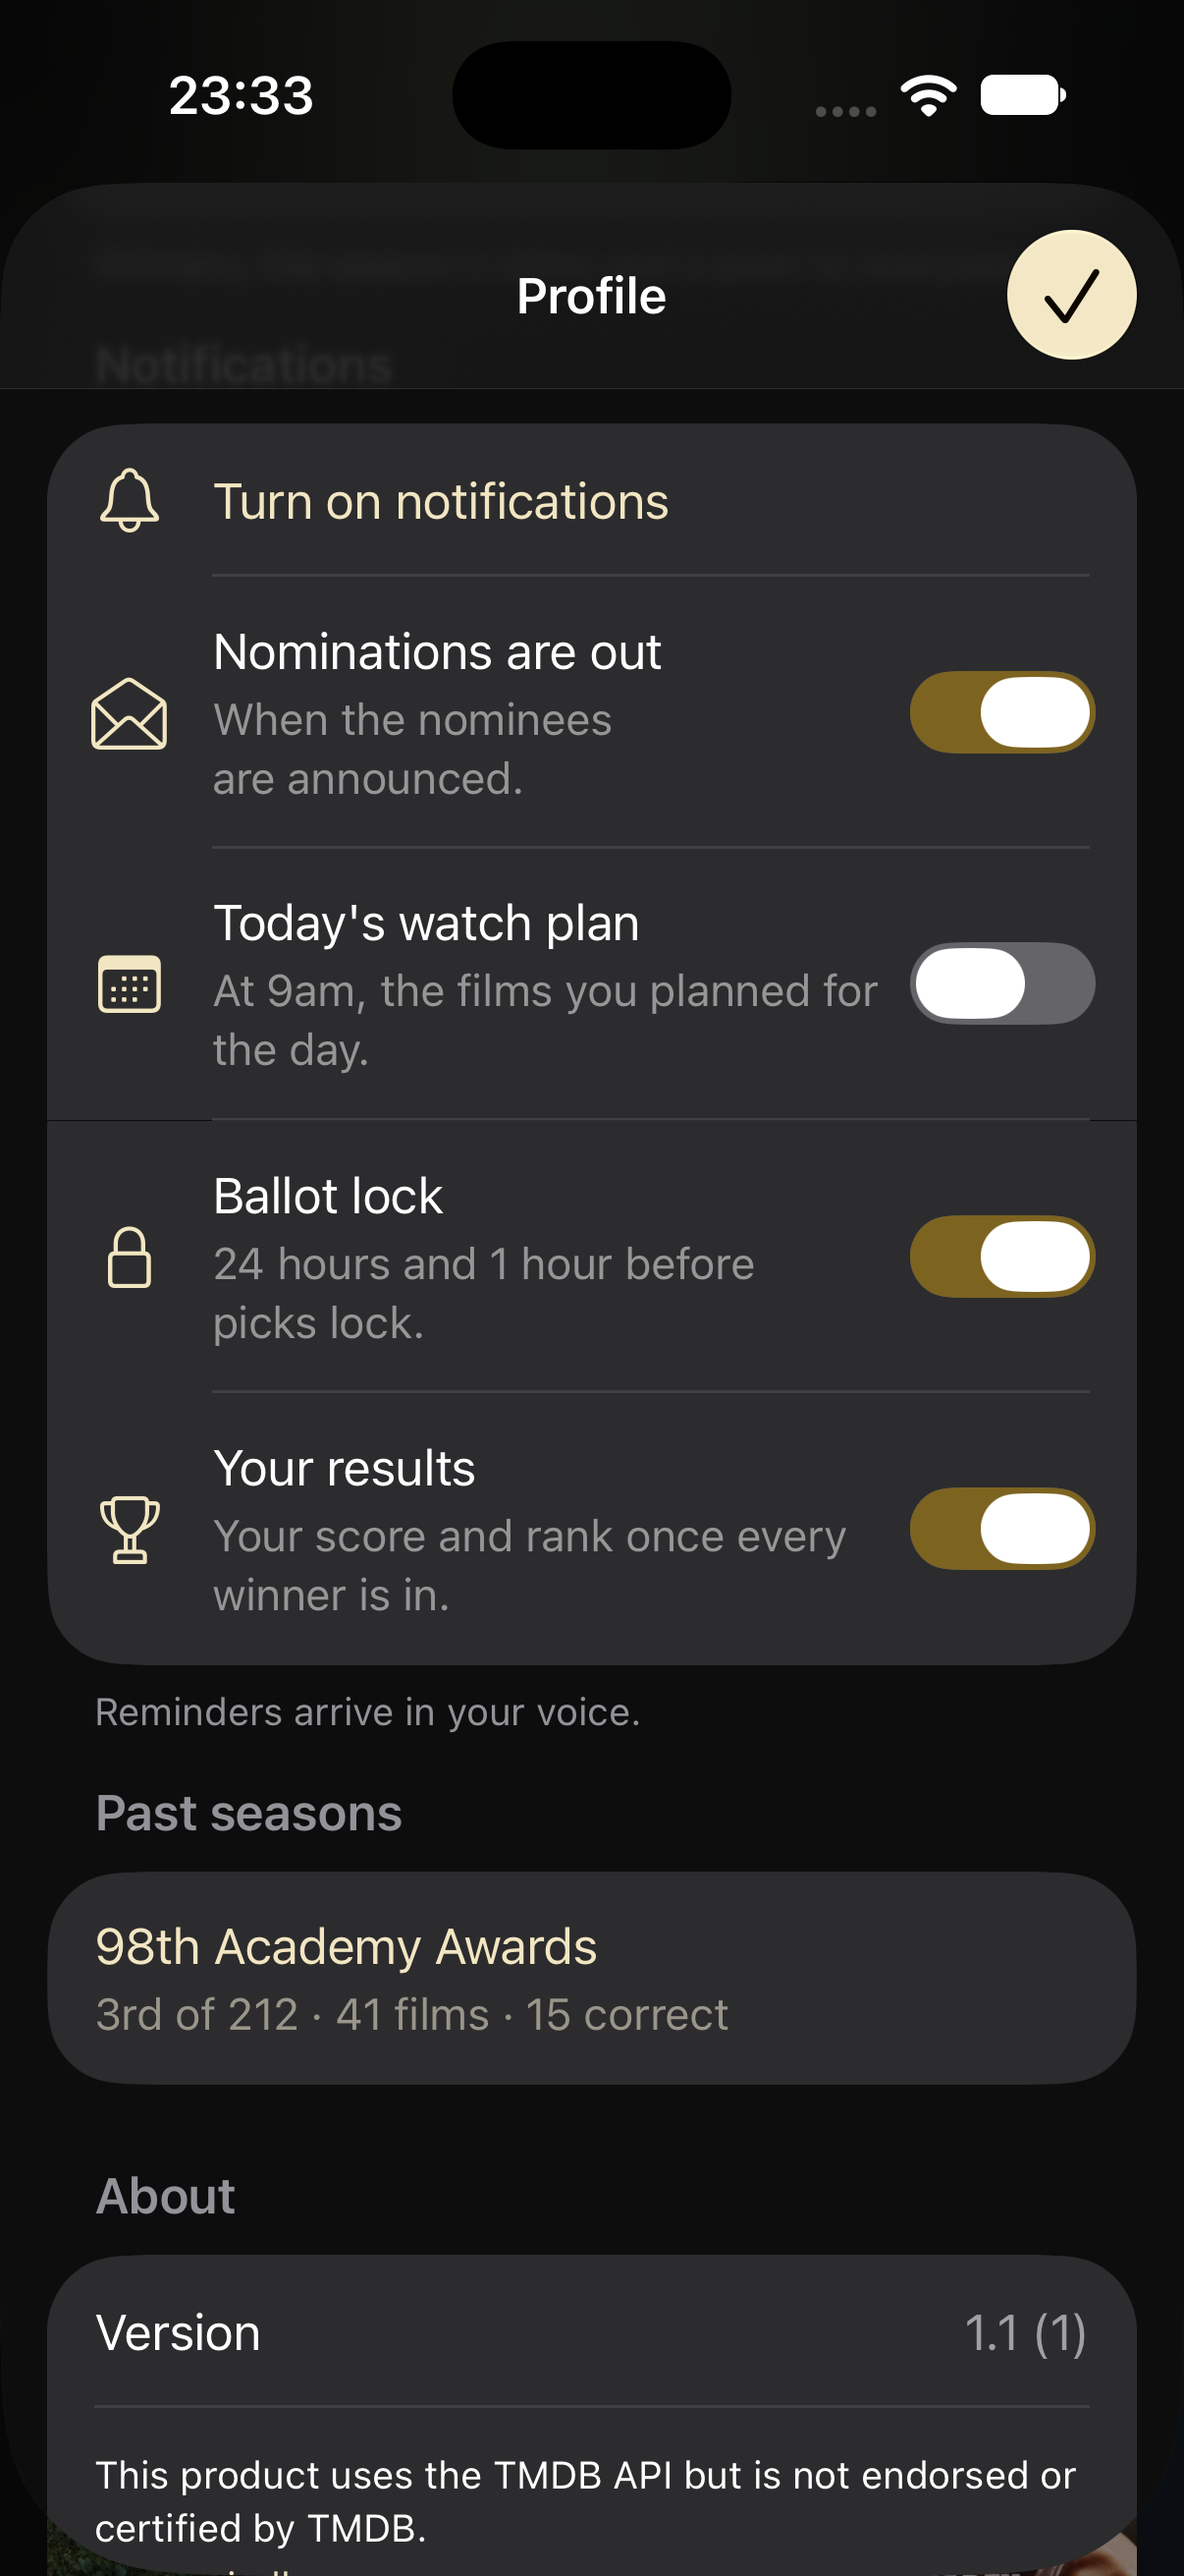
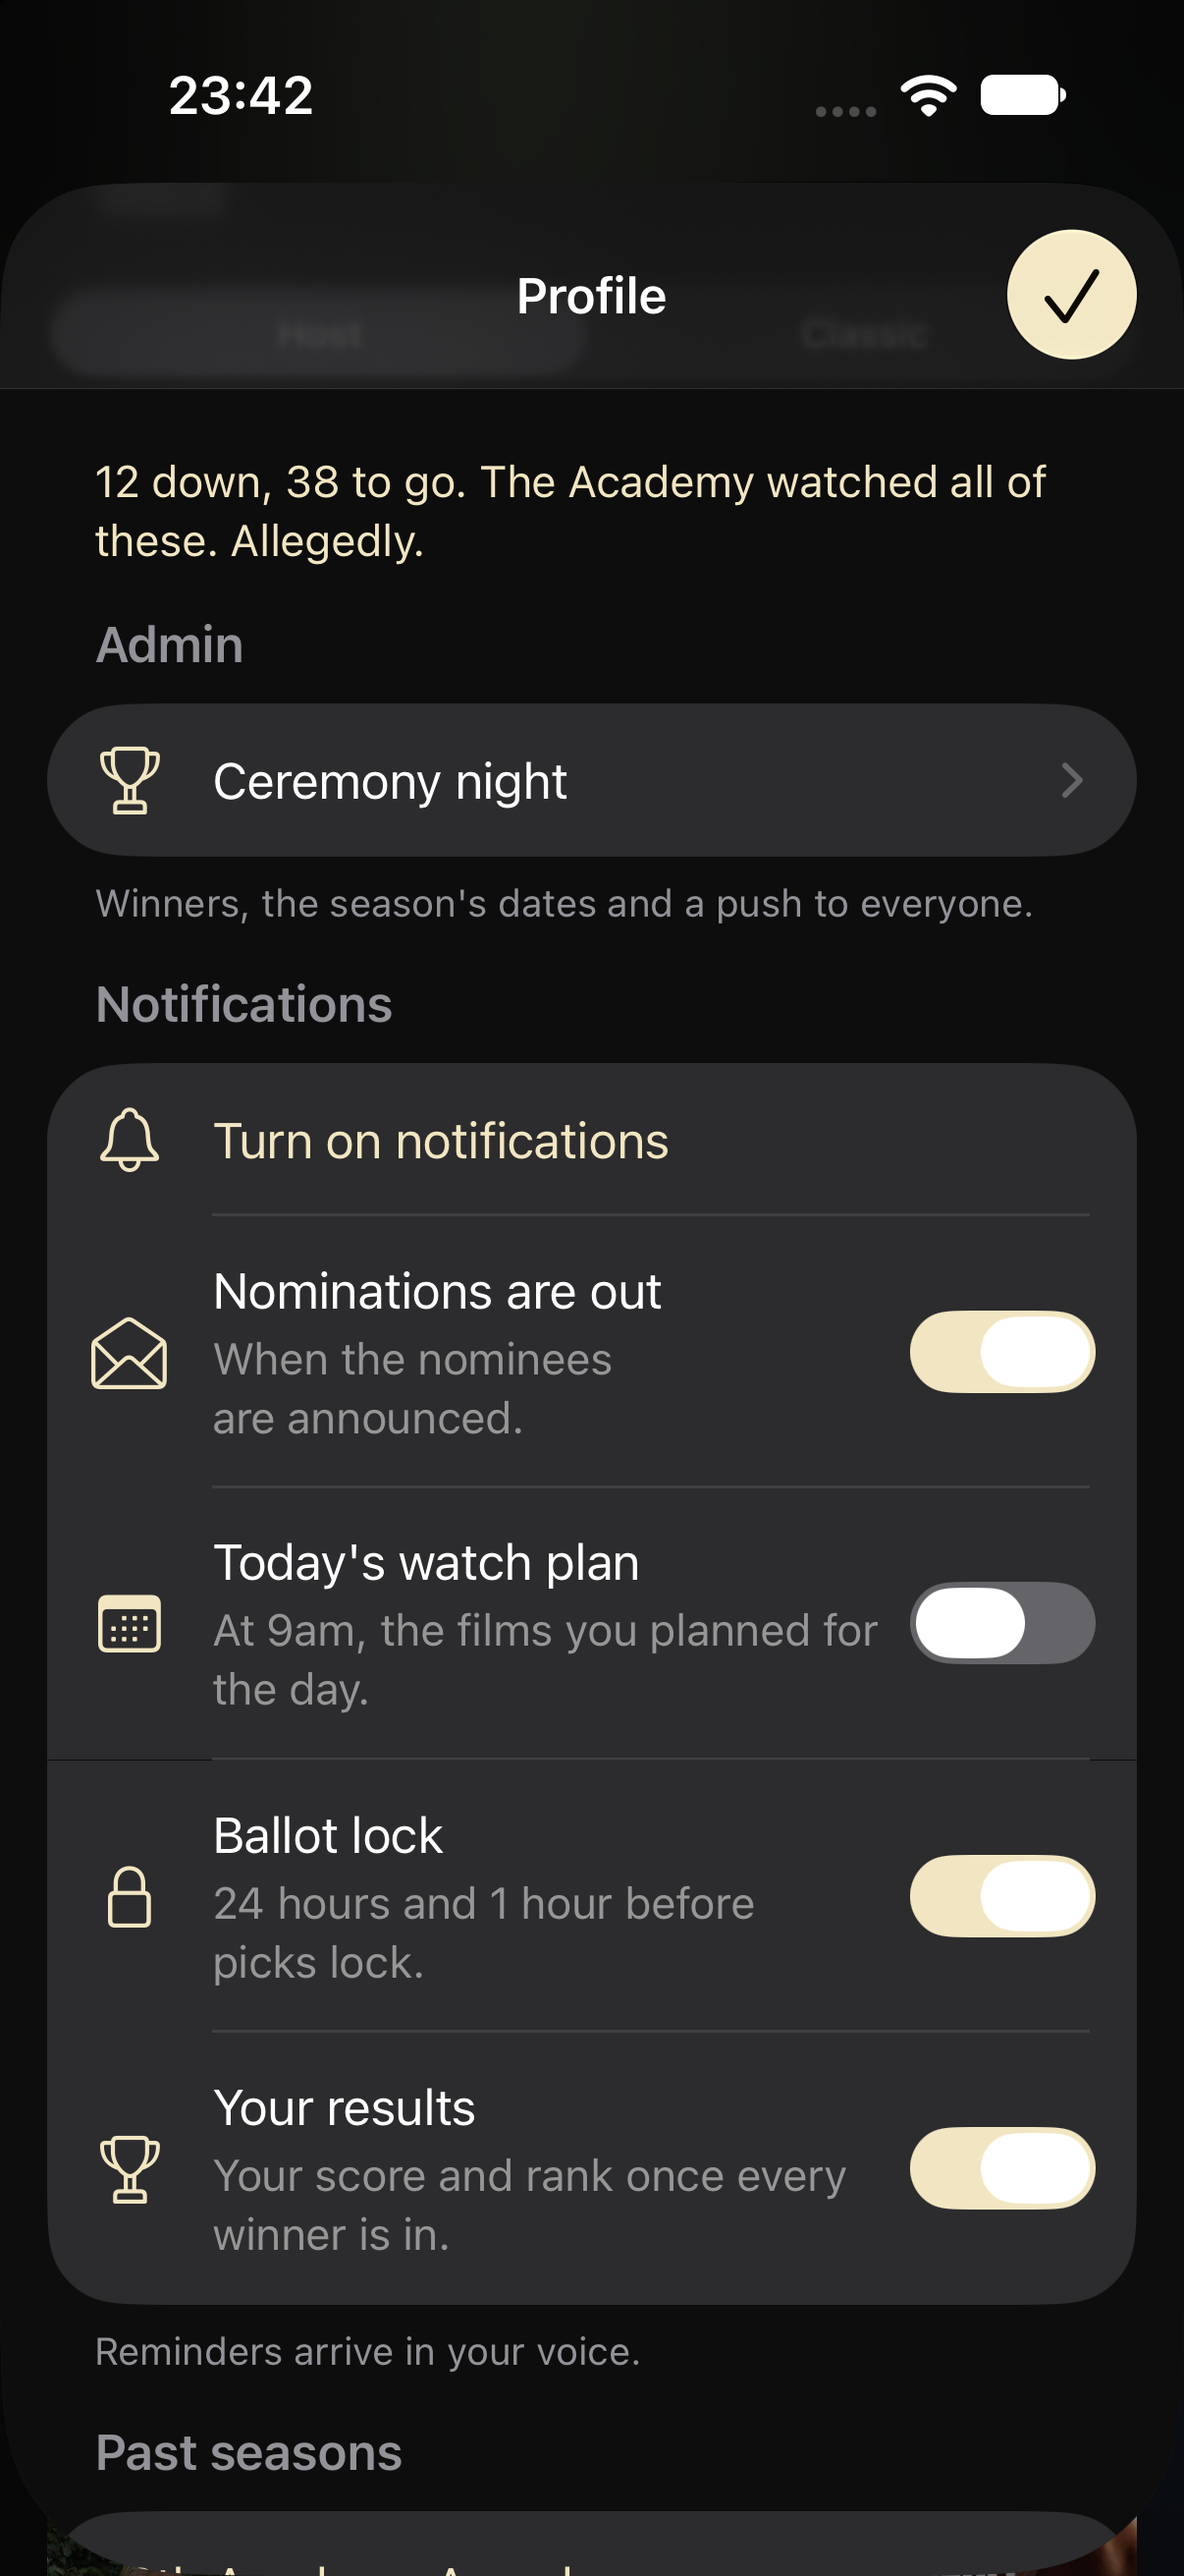
fix: Reminder saves run one at a time, switches aren't gold, and a nominations result stays with its ceremony

diff --git a/OscarsTracker/OscarsTracker/Stores/PushStore.swift b/OscarsTracker/OscarsTracker/Stores/PushStore.swift
@@ -29,7 +29,9 @@ final class PushStore {
     private(set) var status: UNAuthorizationStatus = .notDetermined
     private(set) var token: String?
     private(set) var preferences = NotificationPreferences.defaults
-    /// A switch being saved.
+    /// What the server last confirmed, which a failed save goes back to.
+    private var confirmed = NotificationPreferences.defaults
+    /// Preferences being saved.
     private(set) var isSaving = false
     var actionError: AppError?
 
@@ -84,6 +86,7 @@ final class PushStore {
     /// Before sign-out, so the next person on this phone doesn't get your pushes.
     func signingOut() async {
         preferences = .defaults
+        confirmed = .defaults
         guard let token else { return }
         try? await data.removeDevice(token: token)
     }
@@ -104,37 +107,51 @@ final class PushStore {
         } catch {
             return
         }
+        guard !isSaving else { return }
         preferences = stored ?? .defaults
+        confirmed = preferences
         var wanted = preferences
         wanted.voice = deviceVoice.rawValue
         wanted.timeZone = timeZone.identifier
         guard stored == nil || wanted != stored else { return }
-        if let saved = try? await data.saveNotificationPreferences(wanted) { preferences = saved }
+        if let saved = try? await data.saveNotificationPreferences(wanted), !isSaving {
+            preferences = saved
+            confirmed = saved
+        }
     }
 
-    /// Turns one reminder on or off; puts it back if the save fails.
+    /// Turns one reminder on or off. Saving puts everything back to what the
+    /// server last confirmed if it fails.
     func set(_ reminder: NotificationPreferences.Reminder, _ on: Bool) async {
-        let before = preferences
         preferences[reminder] = on
-        await save(rollingBackTo: before)
+        await save()
     }
 
     /// Profile → Voice changed: reminders follow it.
     func setVoice(_ voice: Voice) async {
         guard preferences.voice != voice.rawValue else { return }
-        let before = preferences
         preferences.voice = voice.rawValue
-        await save(rollingBackTo: before)
+        await save()
     }
 
-    private func save(rollingBackTo before: NotificationPreferences) async {
+    /// One save at a time: each sends the whole row, so a change made while
+    /// one is in flight is sent after it, in order, and a late answer never
+    /// overwrites a newer switch.
+    private func save() async {
+        guard !isSaving else { return }
         isSaving = true
         defer { isSaving = false }
-        do {
-            preferences = try await data.saveNotificationPreferences(preferences)
-        } catch {
-            preferences = before
-            actionError = AppError(error)
+        while preferences != confirmed {
+            let sending = preferences
+            do {
+                let saved = try await data.saveNotificationPreferences(sending)
+                confirmed = saved
+                if preferences == sending { preferences = saved }
+            } catch {
+                preferences = confirmed
+                actionError = AppError(error)
+                return
+            }
         }
     }
 }

diff --git a/OscarsTracker/OscarsTracker/Shell/AdminView.swift b/OscarsTracker/OscarsTracker/Shell/AdminView.swift
@@ -212,7 +212,12 @@ private struct NominationsSection: View {
                 .confirmationDialog("Send \"Nominations are out\" for the \(admin.ceremony?.name ?? "ceremony")?",
                                     isPresented: $confirming, titleVisibility: .visible) {
                     Button("Send") {
-                        Task { sentTo = await admin.sendNominationsPush() }
+                        Task {
+                            // A result for a ceremony no longer selected isn't this one's.
+                            let requested = admin.ceremonyID
+                            let result = await admin.sendNominationsPush()
+                            if admin.ceremonyID == requested { sentTo = result }
+                        }
                     }
                 } message: {
                     Text("It goes once per ceremony, to everyone who has it on.")

diff --git a/OscarsTracker/OscarsTracker/Data/SampleDataSource.swift b/OscarsTracker/OscarsTracker/Data/SampleDataSource.swift
@@ -319,6 +319,9 @@ final class SampleDataSource: AppDataSource {
     }
 
     var preferences: NotificationPreferences?
+    /// Every preferences save, in order, and an optional pause before each, to test overlap.
+    var preferenceSaves: [NotificationPreferences] = []
+    var preferenceSaveDelay: Duration?
 
     func notificationPreferences(userID: String) async throws -> NotificationPreferences? {
         try check()
@@ -326,8 +329,10 @@ final class SampleDataSource: AppDataSource {
     }
 
     func saveNotificationPreferences(_ preferences: NotificationPreferences) async throws -> NotificationPreferences {
+        if let preferenceSaveDelay { try? await Task.sleep(for: preferenceSaveDelay) }
         try check()
         _ = try requireUser()
+        preferenceSaves.append(preferences)
         self.preferences = preferences
         return preferences
     }

diff --git a/OscarsTracker/OscarsTrackerTests/Native/ReminderTests.swift b/OscarsTracker/OscarsTrackerTests/Native/ReminderTests.swift
@@ -55,6 +55,19 @@ struct ReminderTests {
         #expect(data.preferences == nil)
     }
 
+    @Test func switchesChangedDuringASaveAreSentInOrderAfterIt() async {
+        let data = SampleDataSource()
+        data.preferenceSaveDelay = .milliseconds(50)
+        let store = PushStore(data: data)
+        async let first: Void = store.set(.watchPlan, true)
+        async let second: Void = store.set(.results, false)
+        _ = await (first, second)
+        #expect(data.preferenceSaves.count == 2)
+        #expect(data.preferenceSaves.last?.watchPlan == true && data.preferenceSaves.last?.results == false)
+        #expect(store.preferences.watchPlan && !store.preferences.results)
+        #expect(!store.isSaving)
+    }
+
     @Test func offlineLoadKeepsWhatsShown() async {
         let data = SampleDataSource()
         let store = PushStore(data: data)

diff --git a/OscarsTracker/OscarsTracker/Shell/ProfileSheet.swift b/OscarsTracker/OscarsTracker/Shell/ProfileSheet.swift
@@ -182,7 +182,6 @@ private struct ReminderToggle: View {
                 Image(systemName: reminder.systemImage)
             }
         }
-        .tint(.gold)
     }
 }
 
